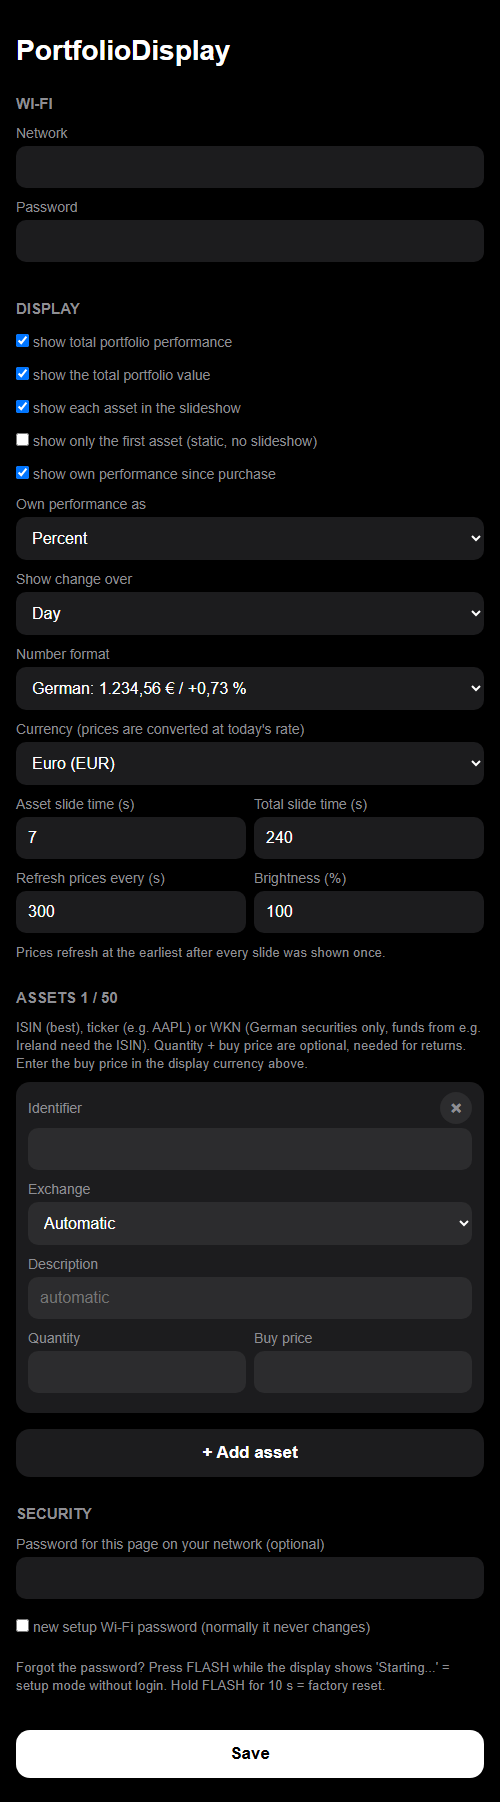
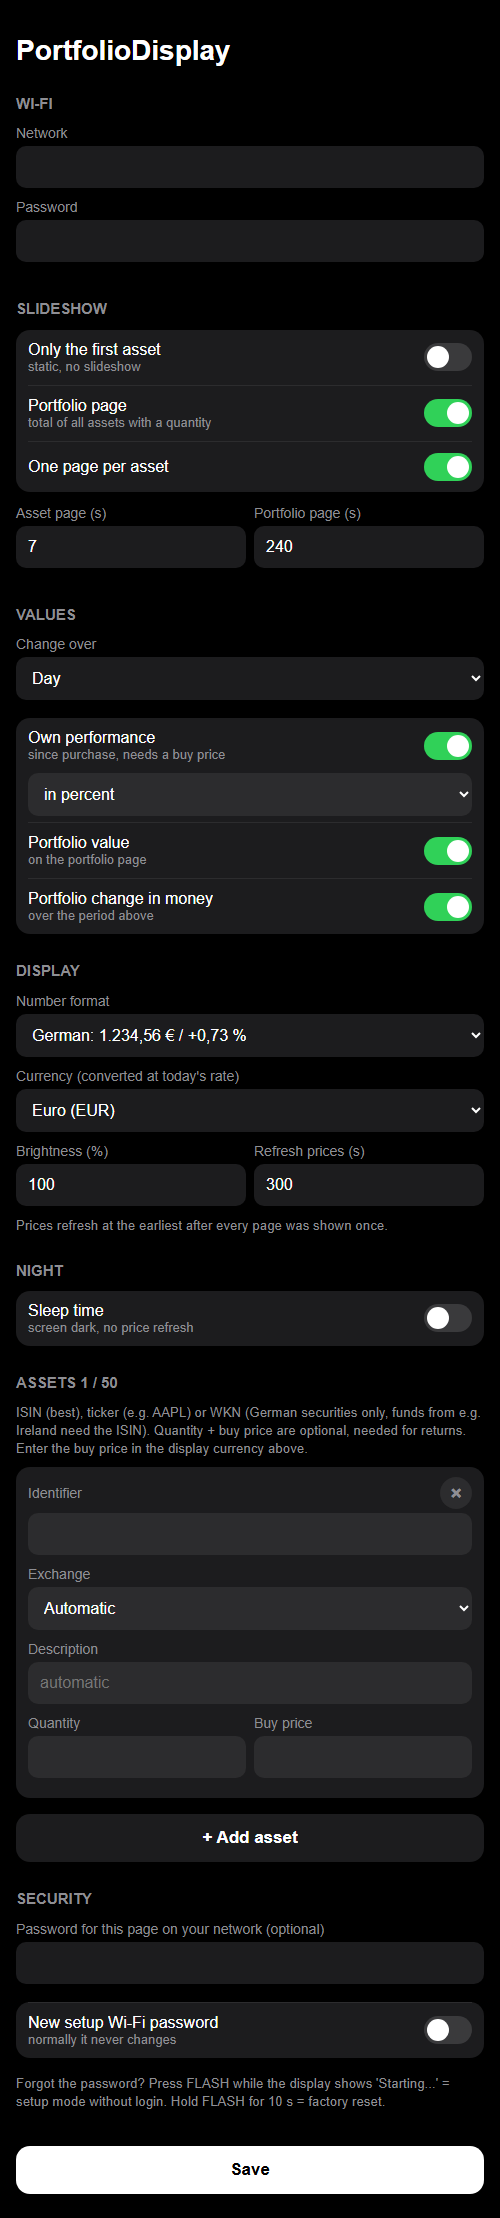
settings page: grouped sections, switches, hide what doesn't apply

diff --git a/src/www/index.html b/src/www/index.html
@@ -18,40 +18,75 @@
 <label>Password</label><input name=pw type=password autocomplete=new-password>
 </section>
 
-<section id=display>
-<h2>Display</h2>
-<label class=c><input class=cb type=checkbox name=show_total> show total portfolio performance</label>
-<label class=c><input class=cb type=checkbox name=show_value> show the total portfolio value</label>
-<label class=c><input class=cb type=checkbox name=show_assets> show each asset in the slideshow</label>
-<label class=c><input class=cb type=checkbox name=single> show only the first asset (static, no slideshow)</label>
-<label class=c><input class=cb type=checkbox name=show_gain> show own performance since purchase</label>
-<label>Own performance as</label>
-<select name=gain>
-<option value=pct>Percent<option value=abs>Amount
-</select>
-<label>Show change over</label>
+<section id=slides>
+<h2>Slideshow</h2>
+<div class=card>
+<label class=sw><span>Only the first asset<small>static, no slideshow</small></span><input type=checkbox name=single></label>
+<div data-if="!single">
+<label class=sw><span>Portfolio page<small>total of all assets with a quantity</small></span><input type=checkbox name=show_total></label>
+<label class=sw><span>One page per asset</span><input type=checkbox name=show_assets></label>
+</div>
+</div>
+<div class=g data-if="!single">
+<div><label>Asset page (s)</label><input name=slide_s type=number min=3 inputmode=numeric></div>
+<div data-if="show_total"><label>Portfolio page (s)</label><input name=total_s type=number min=3 inputmode=numeric></div>
+</div>
+</section>
+
+<section id=values>
+<h2>Values</h2>
+<label>Change over</label>
 <select name=period>
 <option value=1d>Day<option value=5d>Week<option value=ytd>Year to date<option value=max>All time
 </select>
+<div class=card>
+<label class=sw><span>Own performance<small>since purchase, needs a buy price</small></span><input type=checkbox name=show_gain></label>
+<div data-if="show_gain" class=in>
+<select name=gain><option value=pct>in percent<option value=abs>as amount</select>
+</div>
+<div data-if="show_total">
+<label class=sw><span>Portfolio value<small>on the portfolio page</small></span><input type=checkbox name=show_value></label>
+<label class=sw><span>Portfolio change in money<small>over the period above</small></span><input type=checkbox name=show_change></label>
+</div>
+</div>
+</section>
+
+<section id=display>
+<h2>Display</h2>
 <label>Number format</label>
 <select name=numfmt>
 <option value=de>German: 1.234,56 € / +0,73 %<option value=en>English: €1,234.56 / +0.73%
 </select>
-<label>Currency (prices are converted at today's rate)</label>
+<label>Currency (converted at today's rate)</label>
 <select name=cur>
 <option value=EUR>Euro (EUR)<option value=USD>US Dollar (USD)<option value=GBP>British Pound (GBP)
 <option value=CHF>Swiss Franc (CHF)<option value=JPY>Japanese Yen (JPY)
 <option value=native>No conversion (exchange currency)
 </select>
 <div class=g>
-<div><label>Asset slide time (s)</label><input name=slide_s type=number min=3 inputmode=numeric></div>
-<div><label>Total slide time (s)</label><input name=total_s type=number min=3 inputmode=numeric></div>
-</div>
-<div class=g>
-<div><label>Refresh prices every (s)</label><input name=fetch_s type=number min=60 inputmode=numeric></div>
 <div><label>Brightness (%)</label><input name=bright type=number min=10 max=100 inputmode=numeric></div>
+<div><label>Refresh prices (s)</label><input name=fetch_s type=number min=60 inputmode=numeric></div>
 </div>
-<small>Prices refresh at the earliest after every slide was shown once.</small>
+<small>Prices refresh at the earliest after every page was shown once.</small>
+</section>
+
+<section id=night>
+<h2>Night</h2>
+<div class=card>
+<label class=sw><span>Sleep time<small>screen dark, no price refresh</small></span><input type=checkbox name=sleep></label>
+</div>
+<div data-if="sleep">
+<div class=g>
+<div><label>From</label><input name=sleep_from type=time></div>
+<div><label>Until</label><input name=sleep_to type=time></div>
+</div>
+<label>Time zone (summer time is automatic)</label>
+<select name=tz>
+<option value=0eu>London, Lisbon<option value=60eu>Berlin, Paris, Vienna, Zurich<option value=120eu>Athens, Helsinki
+<option value=-300us>New York<option value=-360us>Chicago<option value=-420us>Denver<option value=-480us>Los Angeles
+<option value=0>UTC<option value=330>India<option value=480>Singapore, Hong Kong<option value=540>Tokyo<option value=600>Brisbane
+</select>
+</div>
 </section>
 
 <section id=assets>
@@ -67,8 +102,10 @@ Enter the buy price in the display currency above.</small>
 <h2>Security</h2>
 <label>Password for this page on your network <span id=ppstate></span></label>
 <input name=pp type=password autocomplete=new-password>
-<label class=c id=ppdel hidden><input class=cb type=checkbox name=ppdel> remove password</label>
-<label class=c><input class=cb type=checkbox name=apnew> new setup Wi-Fi password (normally it never changes)</label>
+<div class=card>
+<label class=sw id=ppdel hidden><span>Remove password</span><input type=checkbox name=ppdel></label>
+<label class=sw><span>New setup Wi-Fi password<small>normally it never changes</small></span><input type=checkbox name=apnew></label>
+</div>
 <p><small>Forgot the password? Press FLASH while the display shows 'Starting...' = setup mode
 without login. Hold FLASH for <span id=resets>10</span> s = factory reset.</small></p>
 </section>
@@ -105,6 +142,16 @@ if (location.search == '?ok') {
   $('#note').textContent = 'Saved.';
   history.replaceState(null, '', '/');
 }
+
+// switches, and the blocks that only matter when a switch is on (data-if="name" / "!name")
+const SWITCHES = ['show_total', 'show_assets', 'single', 'show_gain', 'show_value', 'show_change', 'sleep'];
+function deps() {
+  for (const e of document.querySelectorAll('[data-if]')) {
+    const k = e.dataset.if.replace('!', ''), on = f.elements[k].checked;
+    e.hidden = e.dataset.if[0] == '!' ? on : !on;
+  }
+}
+f.addEventListener('change', deps);
 
 // one asset row from the template
 function addRow(it) {
@@ -182,8 +229,10 @@ function fill(c) {
   max = c.max;
 
   // plain fields
-  for (const k of ['ssid', 'period', 'numfmt', 'cur', 'gain', 'slide_s', 'total_s', 'fetch_s', 'bright']) f.elements[k].value = s[k];
-  for (const k of ['show_total', 'show_assets', 'single', 'show_gain', 'show_value']) f.elements[k].checked = s[k];
+  for (const k of ['ssid', 'period', 'numfmt', 'cur', 'gain', 'slide_s', 'total_s', 'fetch_s', 'bright',
+                   'sleep_from', 'sleep_to', 'tz']) f.elements[k].value = s[k];
+  for (const k of SWITCHES) f.elements[k].checked = s[k];
+  deps();
   f.pw.placeholder = c.pw ? 'saved - leave empty to keep' : '';
   for (const n of c.nets) $('#nets').append(new Option(n));
 

diff --git a/src/www/s.css b/src/www/s.css
@@ -12,8 +12,16 @@ button{width:100%;background:#fff;color:#000;border:0;border-radius:14px;padding
 button.sec{background:#1c1c1e;color:#fff;margin-top:6px}
 button:disabled{opacity:.4}
 button.x{width:32px;height:32px;padding:0;margin:0;border-radius:16px;background:#2c2c2e;color:#8e8e93;font-size:20px;line-height:32px}
-.cb{width:auto}
-.c{display:block;margin:6px 0}
-.c[hidden]{display:none}
+.card{background:#1c1c1e;border-radius:14px;padding:0 12px;margin:8px 0 12px}
+.sw{display:flex;align-items:center;gap:12px;padding:11px 0;color:#fff;font-size:16px;border-top:1px solid #2c2c2e}
+.card>.sw:first-child,.card>div:first-child>.sw:first-child{border-top:0}
+.sw small{display:block;font-size:13px}
+.sw input{-webkit-appearance:none;appearance:none;flex:none;width:48px;height:28px;margin:0 0 0 auto;padding:0;border-radius:14px;background:#3a3a3c;position:relative;transition:background .2s}
+.sw input:before{content:"";position:absolute;top:3px;left:3px;width:22px;height:22px;border-radius:11px;background:#fff;transition:left .2s}
+.sw input:checked{background:#30d158}
+.sw input:checked:before{left:23px}
+.in{padding-bottom:6px}
+.in select{background:#2c2c2e;margin:0}
+[hidden]{display:none!important}
 small,p{color:#8e8e93}
 .sym{color:#fff}

diff --git a/tools/portal_shots.py b/tools/portal_shots.py
@@ -3,7 +3,7 @@
 Usage: uv run tools/portal_shots.py
 Serves the real src/www files on localhost with example /cfg.json data and takes
 phone-width shots with headless Edge/Chrome. No board needed.
-Whole pages (1_..4_) plus one shot per form section (wifi, display, assets, security).
+Whole pages (1_..4_) plus one shot per form section.
 """
 import json
 import shutil
@@ -26,7 +26,8 @@ BROWSERS = (r"C:\Program Files (x86)\Microsoft\Edge\Application\msedge.exe",
             r"C:\Program Files\Google\Chrome\Application\chrome.exe", "chromium", "google-chrome")
 
 BASE = {"ssid": "", "show_total": 1, "show_assets": 1, "single": 0, "period": "1d", "numfmt": "de",
-        "cur": "EUR", "show_gain": 1, "show_value": 1, "gain": "pct", "slide_s": 7, "total_s": 240, "fetch_s": 300, "bright": 100}
+        "cur": "EUR", "show_gain": 1, "show_value": 1, "show_change": 1, "sleep": 0, "sleep_from": "23:00",
+        "sleep_to": "07:00", "tz": "60eu", "gain": "pct", "slide_s": 7, "total_s": 240, "fetch_s": 300, "bright": 100}
 ASSETS = [
     {"id": "IE00B4L5Y983", "ex": ".DE", "name": "MSCI World", "qty": 10, "buy": 80.5,
      "sym": "EUNL.DE", "yname": "iShares Core MSCI World"},
@@ -35,13 +36,16 @@ ASSETS = [
 ]
 NETS = ["FRITZ!Box 7590 XY", "Home", "Neighbour-5G"]
 
-CONFIGURED = {"s": dict(BASE, ssid="Home", period="ytd"), "items": ASSETS,
+CONFIGURED = {"s": dict(BASE, ssid="Home", period="ytd", sleep=1), "items": ASSETS,
               "pw": True, "pp": True, "max": 50, "reset_s": 10, "nets": NETS}
 
 # name -> (path, cfg.json). "?only=<section>" shows just that part of the form (for the field tables)
 VIEWS = {
     "wifi": ("/?only=wifi", CONFIGURED),
+    "slides": ("/?only=slides", CONFIGURED),
+    "values": ("/?only=values", CONFIGURED),
     "display": ("/?only=display", CONFIGURED),
+    "night": ("/?only=night", CONFIGURED),
     "assets": ("/?only=assets", CONFIGURED),
     "security": ("/?only=security", CONFIGURED),
     "1_first_setup": ("/", {"s": BASE, "items": [], "pw": False, "pp": False, "max": 50, "reset_s": 10,
